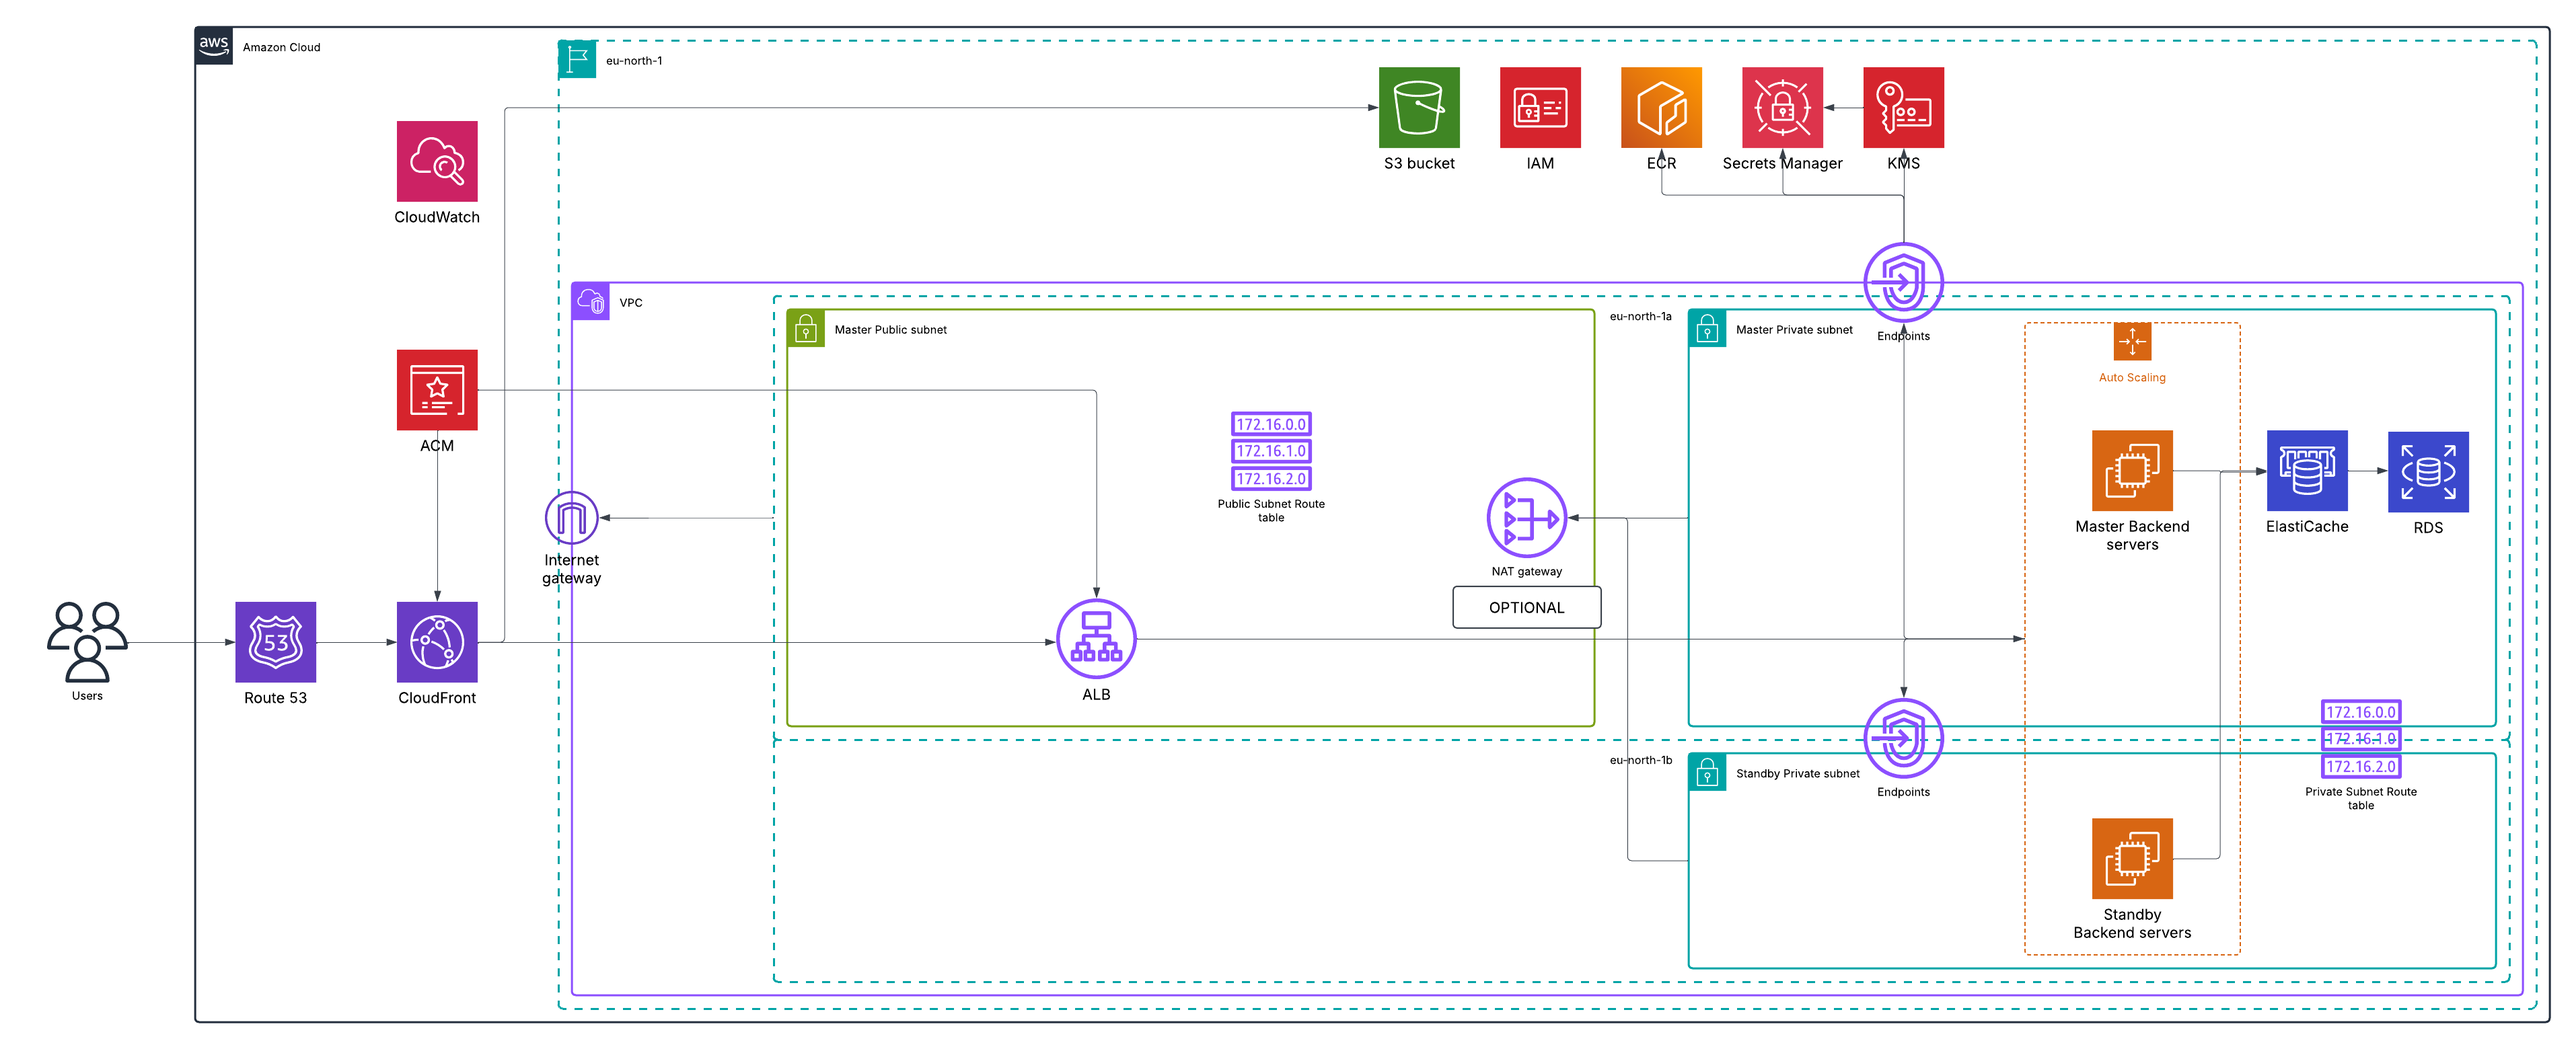
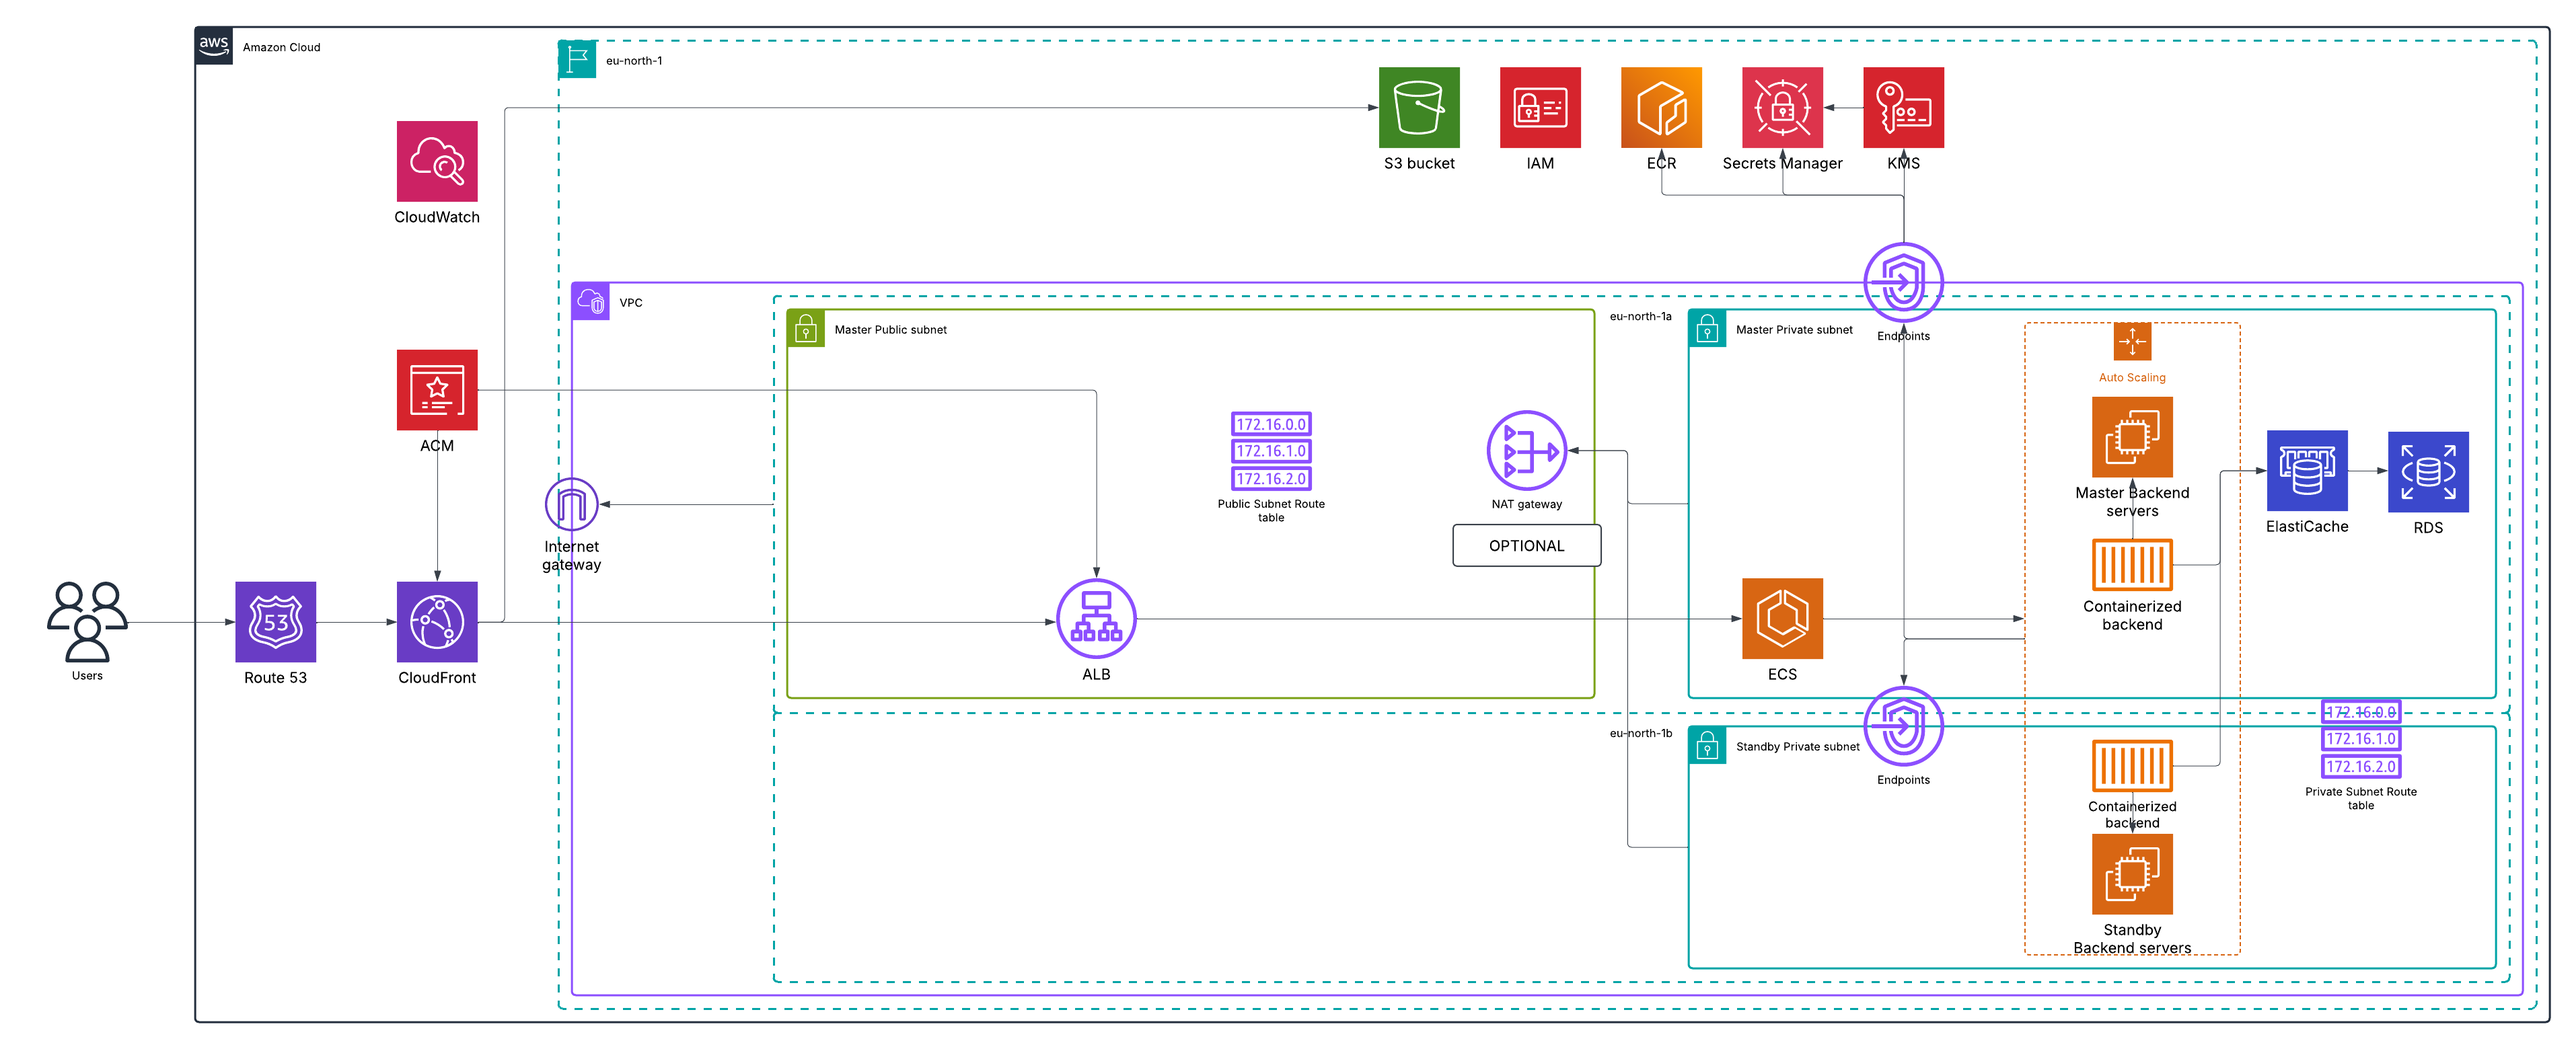
Architecture update

diff --git a/aws/architecture/README.md b/aws/architecture/README.md
@@ -12,9 +12,9 @@ Each service type will have own security group which, following Principle of Lea
 Main communication flow:
 * Users connect to application by domain name that is resolved by Route 53.
 * Route 53 routes to CloudFront to serve website.
-* CloudFront serves cached website or requests it from S3 bucket. CloudFront proxies requests to backend to backend's ALB.
-* ALB distributes load to Auto Scaling Group of backend EC2 instances.
-* Backend EC2 instances communicate with ElastiCache to access RDS database.
+* CloudFront serves cached website or requests it from S3 bucket. CloudFront proxies requests to backend's ALB.
+* ALB distributes load to backend containers ran by ECS service that uses Auto Scaling Group of EC2 instances as infrastructure.
+* Backend containers communicate with ElastiCache to access RDS database.
 * ElastiCache accesses RDS database to take actions on application's data.
 
 Other communication:
@@ -28,7 +28,7 @@ All actions will be taken from IAM user account that has proper permissions to m
 Each service type will have own role which, following Principle of Least Privilege, will have permissions for only needed actions to perform their tasks.
 ### Secrets Manager and KMS
 Secrets Manager will manage secrets for backend application and RDS database.\
-KMS will manage any needed keys for Secrets Manager and used services \(mainly AWS-managed keys\).
+KMS will manage any needed keys for Secrets Manager and used services \(AWS-managed keys\).
 ### ACM
 ACM will manage free, public certificates for CloudFront and ALB.
 ### Route Tables
@@ -40,12 +40,14 @@ NAT Gateway will be located in master public subnet and serve for private subnet
 ### VPC Endpoints
 VPC Endpoints will be used for connecting services in private \(maybe in public too\) subnets \(EC2, RDS, ElastiCache\) to regional services \(ECR, KMS, Secrets Manager\).
 ### ALB
-Application Load Balancer will be used to distribute traffic in EC2's Auto Scaling Group.
+Application Load Balancer will be used to distribute traffic to ECS containers in Auto Scaling EC2 group.
 ### CloudWatch
 CloudWatch monitors and observes all services with defined up to 10 alarms when something goes wrong.
 ### Auto Scaling
-Backend Free-Tiered EC2 servers will use Docker to host application.\
-It will be auto-scaled from 1 to 2 instances based on CPU/memory usage or failure of a master instance. Auto scaling will be distributed between 2 AZs. Maybe some Spot Instances will be used.
+Backend Free-Tiered EC2 servers will be used for running application containers with ECS.\
+They will be auto-scaled from 1 to 2 instances based on CPU/memory usage or failure of a master instance. Auto scaling will be distributed between 2 AZs.
+### ECS
+ECS will be used to run backend application in containers using auto scaled EC2 infrastructure.
 ### Route 53
 DNS will route domain name \(if bought or obtained\) to CloudFront.
 ### CloudFront
